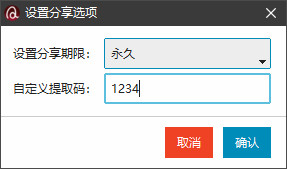
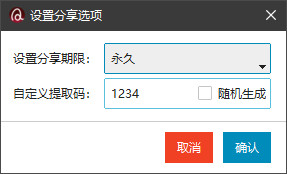
增加支持分享时随机提取码

diff --git a/src/ui.py b/src/ui.py
@@ -216,7 +216,11 @@ class CustomDialog(ttk.Toplevel):
         # 提取码输入框
         self.var_password = ttk.StringVar(self, value=LABEL_MAP['default_password'])
         ttk.Label(master, text=LABEL_MAP['password_title']).grid(row=1, column=0, sticky='e')
-        ttk.Entry(master, textvariable=self.var_password, bootstyle="info").grid(row=1, column=1, sticky='ew', padx=5, pady=2)
+        self.password_entry = ttk.Entry(master, textvariable=self.var_password, bootstyle="info")
+        self.password_entry.grid(row=1, column=1, sticky='ew', padx=5, pady=2)
+        # 随机提取码选项
+        self.var_random_pass = ttk.BooleanVar()
+        ttk.Checkbutton(master, text=LABEL_MAP['password_random'], variable=self.var_random_pass, command=self.toggle_password_entry).grid(row=1, column=1, sticky='e', padx=10, pady=2)
         # 在两个 frame 之间插入分割线
         ttk.Separator(self, orient='horizontal').pack(fill="x")
         # 底部按钮
@@ -225,17 +229,27 @@ class CustomDialog(ttk.Toplevel):
         ttk.Button(button_frame, text=LABEL_MAP['ok'], command=self.validate, bootstyle='primary').pack(side='right', padx=5)
         ttk.Button(button_frame, text=LABEL_MAP['cancel'], command=self.destroy, bootstyle='danger').pack(side='right', padx=5)
 
+    def toggle_password_entry(self):
+        """选择随机提取码时，禁用提取码输入框"""
+        if self.var_random_pass.get():
+            self.password_entry.config(state='disabled')
+        else:
+            self.password_entry.config(state='normal')
+
     def validate(self) -> bool:
         """验证输入提取码有效性"""
+        # 获取用户输入
         expiry = self.var_expiry.get()
         password = self.var_password.get()
+        random_password = self.var_random_pass.get()
+
         # 用正则检查用户输入，为 False 时窗口继续停留
-        if not re.match("^[a-zA-Z0-9]{4}$", password):
+        if not re.match("^[a-zA-Z0-9]{4}$", password) and not random_password:
             Messagebox.show_warning(title=LABEL_MAP['validate_title'], message=LABEL_MAP['validate_msg'], master=self)
             return False
 
         # 结果被 share 函数直接获取
-        self.result = (expiry, password)
+        self.result = (expiry, password, random_password)
         self.destroy()
         return True
 

diff --git a/src/operations.py b/src/operations.py
@@ -16,7 +16,7 @@ import ttkbootstrap as ttk
 from src.constants import EXP_MAP, DELAY_SECONDS, INVALID_CHARS, ERROR_CODES, SAVE_LIMIT, COLOR_MAP
 from src.network import Network
 from src.ui import CustomDialog
-from src.utils import thread_it, write_config, parse_response, normalize_link, parse_url_and_code, update_cookie
+from src.utils import thread_it, write_config, parse_response, normalize_link, parse_url_and_code, update_cookie, generate_code
 
 
 class Operations:
@@ -108,7 +108,7 @@ class Operations:
     def setup_share(self) -> None:
         """准备参数，更新状态"""
         # 从设置对话框获取参数变量
-        self.expiry, self.password = self.dialog_result.result
+        self.expiry, self.password, self.random_password = self.dialog_result.result
         # 更新任务总数和状态
         self.total_task_count = len(self.dir_list_all)
         self.change_status('sharing')
@@ -180,10 +180,13 @@ class Operations:
         msg = f'目录：{filename}' if is_dir else f'文件：{filename}'
         self.insert_logs(msg, alt=True)
 
+        # 处理提取码
+        password = self.password if not self.random_password else generate_code()
+
         # 发送创建分享请求
-        r = self.network.create_share(info['fs_id'], EXP_MAP[self.expiry], self.password)
+        r = self.network.create_share(info['fs_id'], EXP_MAP[self.expiry], password)
         if isinstance(r, str):
-            result = f'分享成功：{r}?pwd={self.password}，名称：{filename}'
+            result = f'分享成功：{r}?pwd={password}，名称：{filename}'
         else:
             result = f'分享失败：错误代码（{r}），名称：{filename}'
 

diff --git a/src/utils.py b/src/utils.py
@@ -8,7 +8,9 @@
 import atexit
 import base64
 import os
+import random
 import re
+import string
 import tempfile
 import threading
 import zlib
@@ -139,3 +141,17 @@ def update_cookie(bdclnd: str, cookie: str) -> str:
     updated_cookie = ';'.join([f'{key}={value}' for key, value in cookies_dict.items()])
 
     return updated_cookie
+
+
+def generate_code() -> str:
+    """
+    生成一个四位的随机提取码，包含大小写字母和数字。
+
+    :return: 随机提取码
+    """
+    # 包含大小写字母和数字
+    characters = string.ascii_letters + string.digits
+    # 随机选择四个字符
+    code = ''.join(random.choice(characters) for _ in range(4))
+
+    return code

diff --git a/src/constants.py b/src/constants.py
@@ -7,7 +7,7 @@
 """
 # 程序基本信息
 MAIN_TITLE = 'BaiduPanFilesTransfers'
-MAIN_VERSION = '2.8.0'
+MAIN_VERSION = '2.8.1'
 HOME_PAGE = 'https://github.com/hxz393/BaiduPanFilesTransfers'
 # noinspection LongLine
 # 图标使用 zlib 压缩后，再用 base64 编码的值
@@ -100,6 +100,7 @@ http://pan.baidu.com/s/1_evfkiTrEZvOkC2hb-NiKw ju9a
     'settings_title': '设置分享选项',
     'expiry_title': '设置分享期限：',
     'password_title': '自定义提取码：',
+    'password_random': '随机生成',
     'default_password': '1234',
     'ok': '确认',
     'cancel': '取消',

diff --git a/BaiduPanFilesTransfers.py b/BaiduPanFilesTransfers.py
@@ -14,7 +14,7 @@ from src.ui import MainWindow
 
 def main() -> None:
     """
-    主函数，先创建主窗口实例，然后创建动作实例，更新主窗口实例中的动作对象引用，最后运行.
+    主函数，先创建主窗口实例，然后创建动作实例，更新主窗口实例中的动作对象引用，最后运行
 
     :return: 无返回值
     """

diff --git a/README.md b/README.md
@@ -154,7 +154,7 @@ https://pan.baidu.com/e/1X5j-baPwZHmcXioKQPxb_w rsss
 
 ![百度网盘批量转存程序分享设置界面截图](https://raw.githubusercontent.com/hxz393/BaiduPanFilesTransfers/master/Capture/u-4.jpg)
 
-设置好分享期限和提取码（不支持随机）后，点击确定开始执行批量分享，请等待运行完成。此时原先链接输入框内，会插入即将分享的文件名；日志输入框内，会显示生成的分享链接和结果：
+设置好分享期限和提取码（支持随机）后，点击确定开始执行批量分享，请等待运行完成。此时原先链接输入框内，会插入即将分享的文件名；日志输入框内，会显示生成的分享链接和结果：
 
 ![百度网盘批量转存程序批量分享结果截图](https://raw.githubusercontent.com/hxz393/BaiduPanFilesTransfers/master/Capture/u-5.jpg)
 
